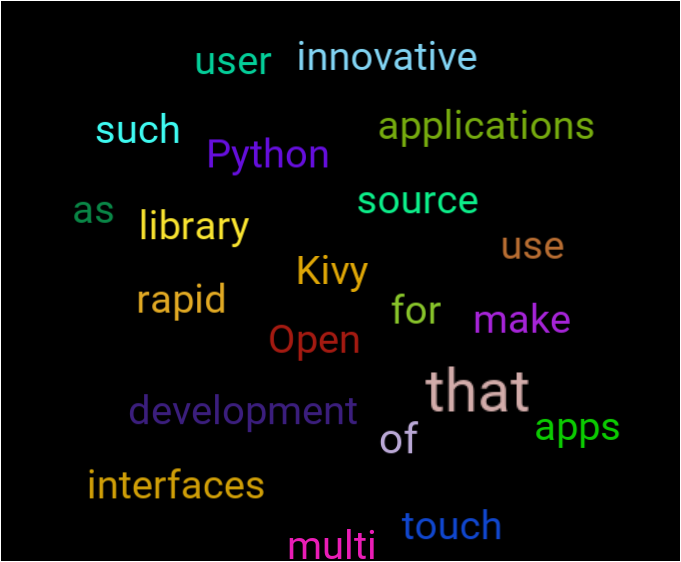
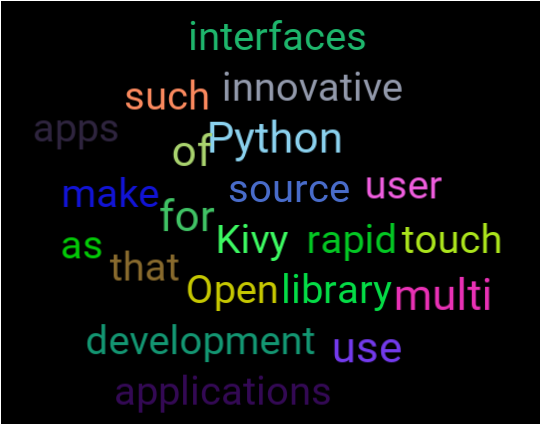
better defaults + update example.png

diff --git a/kivy_garden/wordcloud/__init__.py b/kivy_garden/wordcloud/__init__.py
@@ -73,9 +73,17 @@ class WordCloud(Widget):
     '`layout_interval` how much time to wait between two words'
     layout_interval = NumericProperty(0.01)
 
+    '''`angle_increase` manage how much the angle increases each
+    iteration'''
+    angle_increase = NumericProperty(pi / 100)
+
+    '''`distance_increase` manage how much the distance from center
+    increases each iteration.'''
+    distance_increase = NumericProperty(.1)
+
     '`zoom` A predefined animation to zoom the focused word'
     zoom = (
-        Animation(zoom=1.2, d=.7, t='out_elastic')
+        Animation(zoom=1.1, d=.7, t='out_elastic')
         + Animation(d=.3)
         + Animation(zoom=1, d=.3, t='out_quad')
     )
@@ -111,14 +119,14 @@ class WordCloud(Widget):
         if self.words:
             lbl = self.cache.get(choice(self.words))
             if lbl:
-                self.zoom.cancel(lbl)
-                self.zoom.start(lbl)
+                # self.zoom.cancel(lbl)
+                # self.zoom.start(lbl)
 
                 self.flash.cancel(lbl)
                 self.flash.start(lbl)
 
-                self.bounce.cancel(lbl)
-                self.bounce.start(lbl)
+                # self.bounce.cancel(lbl)
+                # self.bounce.start(lbl)
 
         Clock.schedule_once(self.animate_focused_word, abs(gauss(.5, .3)))
 
@@ -153,8 +161,8 @@ class WordCloud(Widget):
                 lbl.collide_widget(x)
                 for x in self.children
             ):
-                self._angle += pi / 50
-                self._distance += 1
+                self._angle += self.angle_increase
+                self._distance += self.distance_increase
 
                 lbl.center = (
                     self.center_x + cos(self._angle) * self._distance,
@@ -201,9 +209,11 @@ if __name__ == '__main__':
     def do_open(*args):
         root.clear_widgets()
         wc = WordCloud(
+            angle_increase=pi/100,
+            distance_increase=.1,
             label_options=dict(
                 font_size=40,
-                padding=(10, 10),
+                padding=(1, 1),
             ),
             label_cls='CloudLabel',
             words = (
